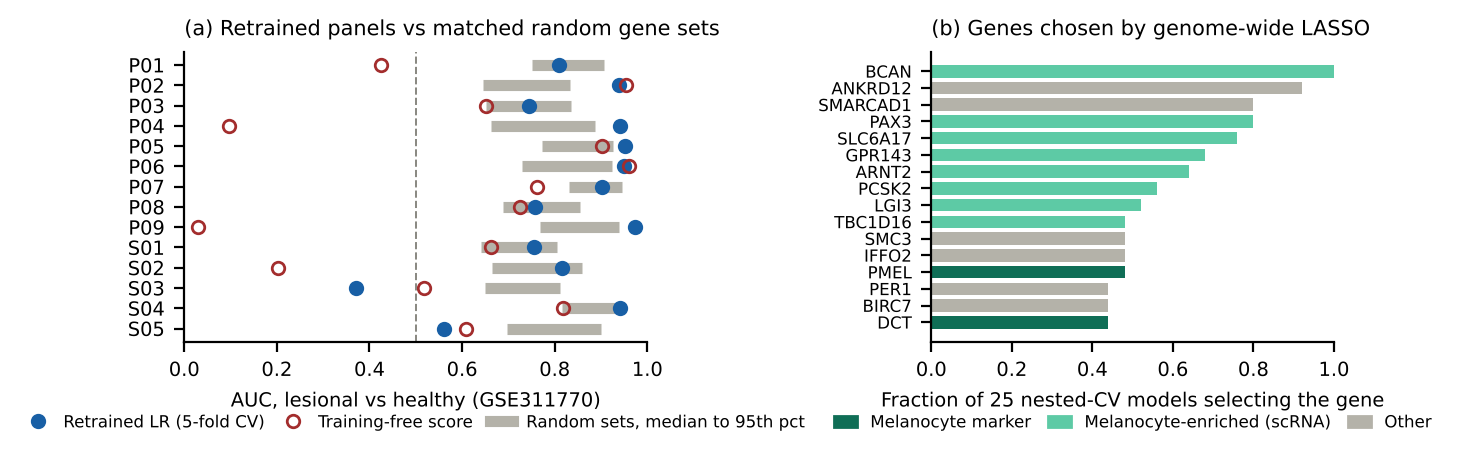
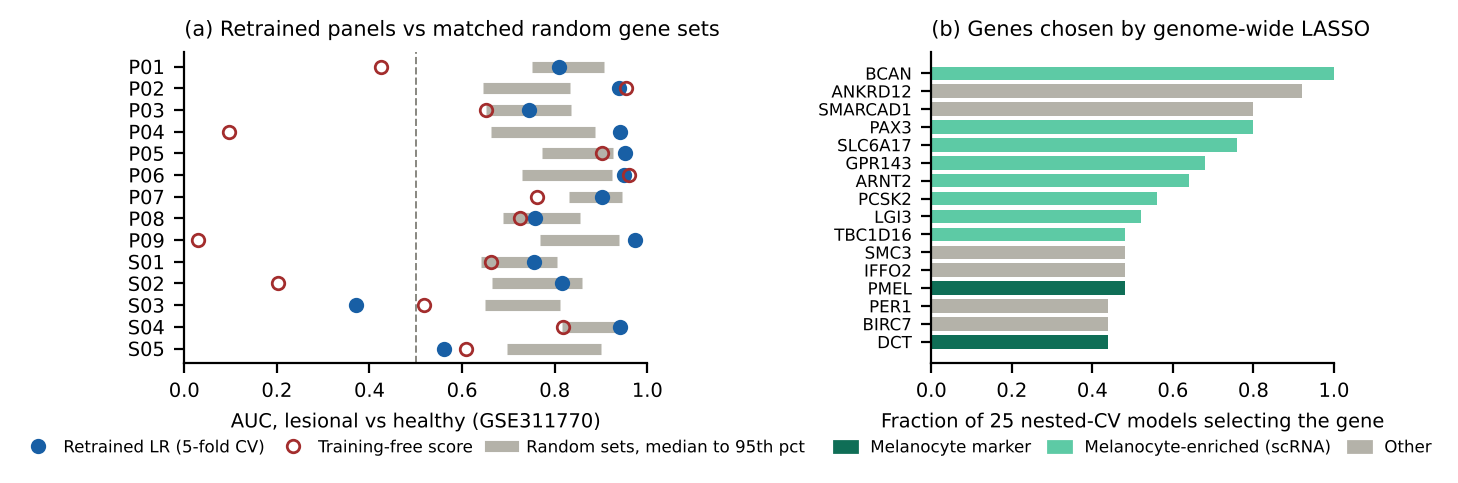
ML figure: final size as in the paper

diff --git a/code/make_figure_ml.py b/code/make_figure_ml.py
@@ -20,7 +20,7 @@ for m, c in [("svm_rbf", "q_svm"), ("rf", "q_rf")]:
 t["x_trained"] = e3.trained_LR_test_AUC; t["x_tf"] = e3.training_free_test_AUC; t["x_q"] = e3.q_BH
 t.to_csv("ml_table_summary.tsv", sep="\t")
 las = pd.read_csv(V + "ml_e2_lasso_selected_genes_annotated.tsv", sep="\t")
-fig, (a, b) = plt.subplots(1, 2, figsize=(7.0, 2.38), gridspec_kw={"width_ratios": [1.15, 1]})
+fig, (a, b) = plt.subplots(1, 2, figsize=(7.0, 2.5), gridspec_kw={"width_ratios": [1.15, 1]})
 order = list(e1.index)[::-1]; y = np.arange(len(order))
 for i, p in enumerate(order):
     a.plot([e1.loc[p, "null_median"], e1.loc[p, "null_q95"]], [i, i], color="#B4B2A9", lw=4, solid_capstyle="butt")
